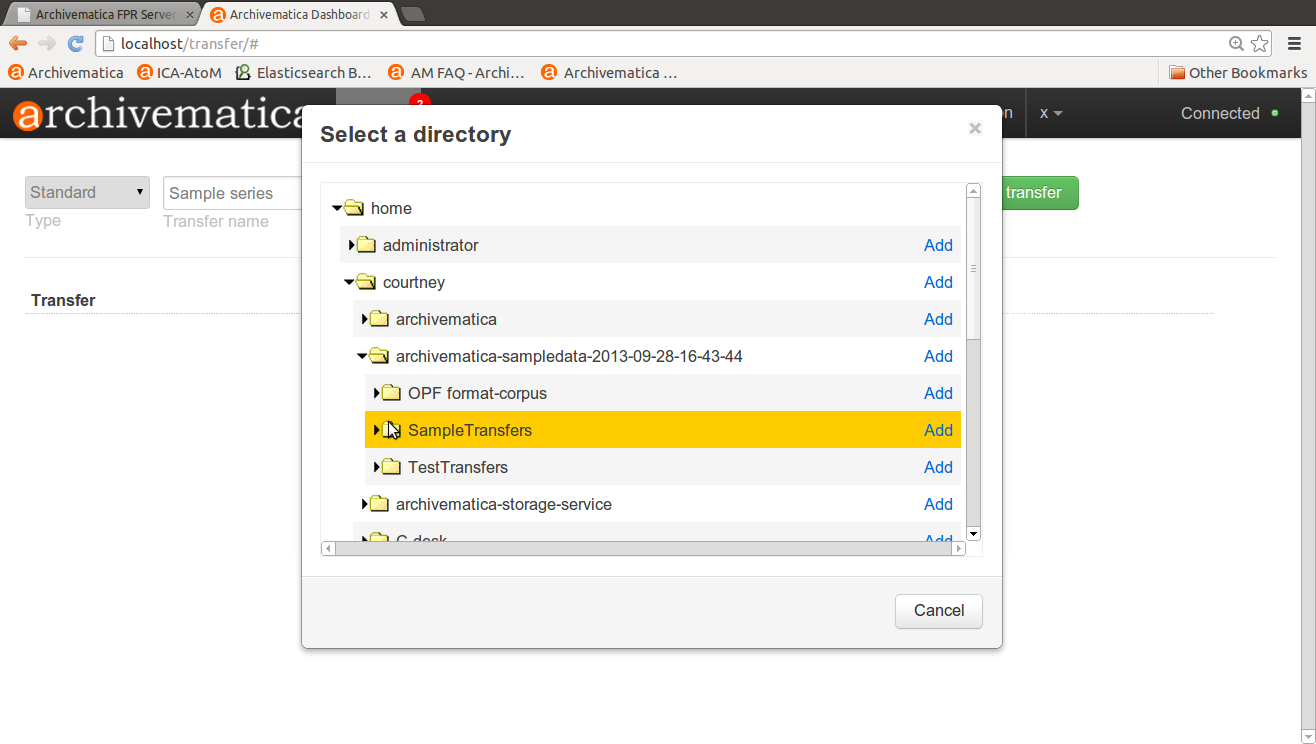
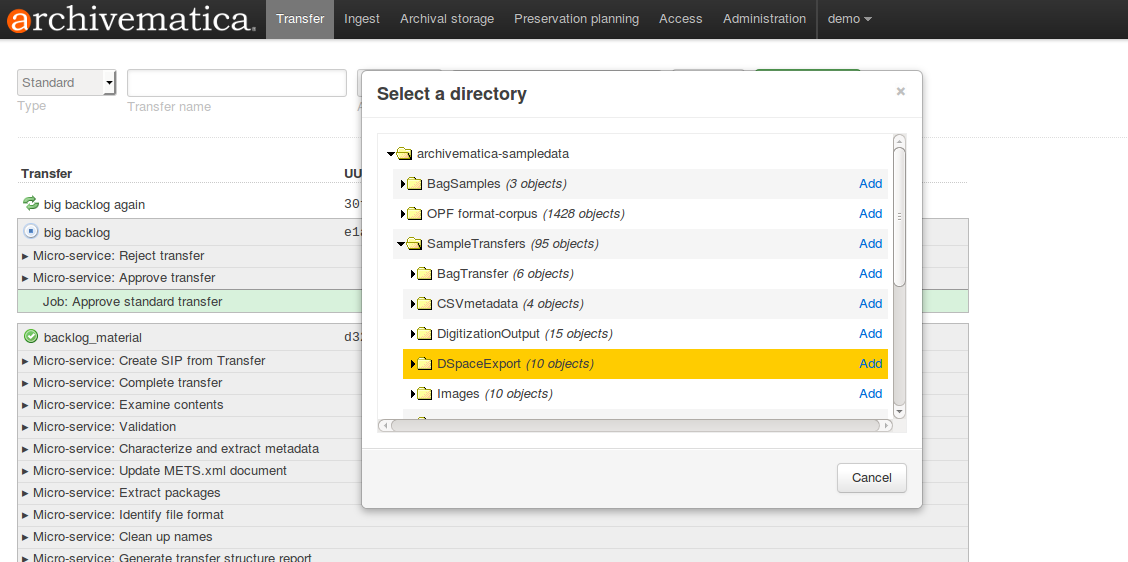
Minor updates, incl. file ID tools in PREMIS events and dashboard feedback

Changed region(s): [[0.0, 0.0, 1.0, 1.0]]

diff --git a/user-manual/transfer/transfer.rst b/user-manual/transfer/transfer.rst
@@ -87,7 +87,11 @@ transfer is composed from multiple sources.
 
    Select transfer for transfers from source directories
 
+As shown above, Archivematica will display the number of objects in each available
+transfer directory.
+
 3. If applicable, enter an accession number for the transfer.
+
 
 4. Once all of your digital object sources have been uploaded, hit the Start
 Transfer button for the transfer processing to begin.
@@ -96,9 +100,9 @@ Transfer button for the transfer processing to begin.
    :align: center
    :figwidth: 60%
    :width: 100%
-   :alt: Select transfer in dashboard
+   :alt: Start transfer in dashboard
 
-   Select transfer
+   Start transfer
 
 
 .. _create-submission:
@@ -299,8 +303,7 @@ as possible to AIP and DIP processing rather than hardcoding and automating so
 much that the archivist is left less influence on ingest.
 
 Format identification is logged as a PREMIS event in the METS.xml using the
-results of running FITS tools (DROID, in particular), not the results of the
-tool selected to base normalization upon. This will change in coming releases.
+results of running whichever tool chosen during processing.
 
 .. _extract-packages:
 
